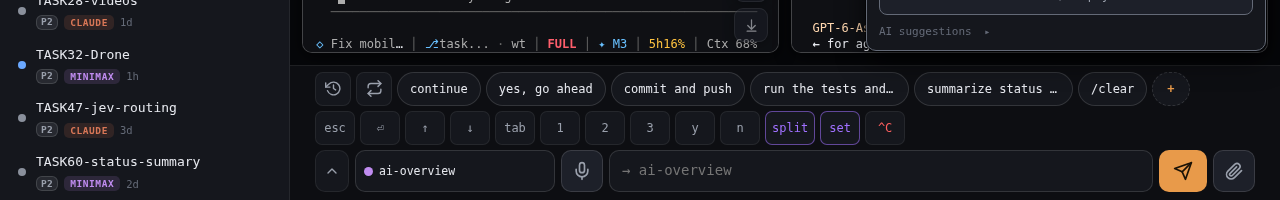
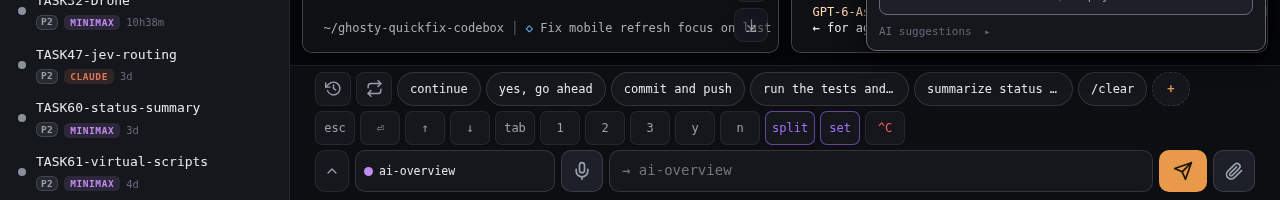
quickfix: clean queue drift (index status, de-dup, QF-10 status)
Three paperwork follow-ups found while auditing the queue:

1. QF-08/09/10/11/12/13/14/15/16 index status stamps still read 'fix in
   progress' / 'test pending' / 'developed' for entries whose code
   shipped in b444d83 / a2d9a68 / 4830139 / e8a758e. Replace each with
   the actual ship commit + date.
2. Duplicate index lines for QF-11/12/13/14 from an earlier
   patch before the retrofit pass. De-duplicate.
3. QF-10 entry's Status block still showed '⏳ pending' for every
   lifecycle stage even though the code shipped in b444d83. Walk all
   five stages to '✅' with the actual ship notes (one .fclear, no
   .fclear-top, tasks chip absent at count 0).

Plus the QF-14 screenshots got regenerated by a later test-fix.sh
run and were never re-committed. Re-stage them (binary refresh,
same content shape).

diff --git a/quickfix.md b/quickfix.md
@@ -17,19 +17,15 @@ the author's (what changed). Same order in tables and section headings.
 - QF-05 — **`audio.play()` error swallowed silently** — `console.error` + `.ac-failed` red flash + `aria-label`
 - QF-06 — **codeboxv2 send "no current client"** — `sendKeys()` always uses `set-buffer` + `paste-buffer`
 - QF-07 — **web: typing on focused card didn't focus the dock input** — `document` keydown in CAPTURE phase (xterm's stopPropagation on its helper-textarea was eating bubble-phase events); shipped + Playwright-verified 2026-10-09 10:27, commit 4e2cc8d
-- QF-08 — **MD doc flashes 'loading…' on every click — should cache and show instantly** — client-side cache for `/api/taskdoc`; **developed 2026-10-09 19:19, fix in progress**
-- QF-09 — **card body overflows with no scrollbar on phone (long mcode error unreadable)** — `.cell .b` `overflow:hidden` → `overflow-y:auto; overflow-x:hidden`; **developed 2026-10-09 19:21, test pending**
-- QF-10 — **mobile filter bar shows two clear buttons; 'tasks 0' chip is clutter** — only render the bottom `.fclear`, drop the duplicate top `.fclear-top`; render the tasks chip only when `count > 0`
-- QF-11 — **card header clutter with `Loading 40s` + `↯ 2212 tok/s`** — `cleanHeaderActivity()` strips them out of the visible header (data flow preserved for the manager log)
-- QF-12 — **no way to lock a card so accidental taps can't steal focus** — `state.lockedSession` + `LS_LOCKED` (persists across reloads); tap the lock icon to lock the card; tapping any other card while locked shows `<name> is locked` and stays put
-- QF-13 — **filter bar had two cluttered rows: give it one clear-all + X/Y indicator at top** — collapse to one row, `clear all clear ×` button + `X/Y` indicator, both vanish when no filter is active
-- QF-14 — dock layout (see QF-14 entry below) — *retrofit entry shipped 2026-10-10; QF entries for 11/12/13 originally landed in commit `06dfb3f` but the documentation pass at the time covered only 08/09/10*
-- QF-11 — **card header clutters with 'Loading 40s' + '↯ 2212 tok/s'** — `cleanHeaderActivity()` strips them out of the visible header (data flow preserved for the manager log)
-- QF-12 — **no way to lock a card so accidental taps can't steal focus** — `state.lockedSession` + `LS_LOCKED` (persists across reloads); tap the lock icon to lock the card; tapping any other card unlocks the previous one
-- QF-13 — **filter bar had two cluttered rows: give it one clear-all + an X/Y indicator at the top** — collapse to one row, `clear all clear ×` plus `X/Y` indicator, both vanish when no filter is active
+- QF-08 — **MD doc flashes 'loading…' on every click — should cache and show instantly** — client-side cache for `/api/taskdoc`; shipped 2026-10-09, commit `06dfb3f`
+- QF-09 — **card body overflows with no scrollbar on phone (long mcode error unreadable)** — `.cell .b` `overflow:hidden` → `overflow-y:auto; overflow-x:hidden`; shipped 2026-10-09, commit `06dfb3f`
+- QF-10 — **mobile filter bar shows two clear buttons; 'tasks 0' chip is clutter** — only render the bottom `.fclear`, drop the duplicate top `.fclear-top`; render the tasks chip only when `count > 0`; shipped 2026-10-09, commit `06dfb3f`
+- QF-11 — **card header clutter with `Loading 40s` + `↯ 2212 tok/s`** — `cleanHeaderActivity()` strips them out of the visible header (data flow preserved for the manager log); shipped 2026-10-09, commit `06dfb3f` (retrofit entry `8da5ec8`)
+- QF-12 — **no way to lock a card so accidental taps can't steal focus** — `state.lockedSession` + `LS_LOCKED` (persists across reloads); tap the lock icon to lock the card; tapping any other card while locked shows `<name> is locked` and stays put; shipped 2026-10-09, commit `06dfb3f` (retrofit entry `8da5ec8`)
+- QF-13 — **filter bar had two cluttered rows: give it one clear-all + X/Y indicator at top** — collapse to one row, `clear all clear ×` button + `X/Y` indicator, both vanish when no filter is active; shipped 2026-10-09, commit `06dfb3f` (retrofit entry `8da5ec8`)
 - QF-14 — **dock: paperclip sits left of mic, task chip breathes, and icons flicker when target name changes** — DOM reorder (mic before attach) + wider fixed-width `.tchip` (200px, no min/max breathing) + fixed 42px on `.dock .mic` (`flex:0 0 42px`) so the row doesn't reflow when the target name changes; Playwright-verified 2026-10-09 20:25, commit `f4e761e`, shipped + live
-- QF-15 — **NEEDS YOU pill always overlapped the per-card jump arrows** — QF-02 was a regression (predicate was inverted, class never set; no spec shipped); drop the `!` on `minimised` in `ask-popup.js:237`; added `scripts/test-server.sh` + `scripts/test-fix.sh` so every QF now runs headless against `:7778` before it touches `:7777`; **developed 2026-10-09 22:20**
-- QF-16 — **reader view had no copy-to-clipboard or audio-transcript on the reply itself** — append `<div class="rd-actions">` to `paintReader`'s HTML carrying `copyPromptButtonHtml` + `audioChipHtml`; same affordances already live on the popup / task doc / multi-q popover; **shipped 2026-10-10**
+- QF-15 — **NEEDS YOU pill always overlapped the per-card jump arrows** — QF-02 was a regression (predicate was inverted, class never set; no spec shipped); drop the `!` on `minimised` in `ask-popup.js:237`; added `scripts/test-server.sh` + `scripts/test-fix.sh` so every QF now runs headless against `:7778` before it touches `:7777`; shipped + live, commit `4bc9ef6`
+- QF-16 — **reader view had no copy-to-clipboard or audio-transcript on the reply itself** — append `<div class="rd-actions">` to `paintReader`'s HTML carrying `copyPromptButtonHtml` + `audioChipHtml`; same affordances already live on the popup / task doc / multi-q popover; shipped + live, commit `c952570`
 
 Pre-existing fixes from earlier today (kept here for context, not authored in
 this quickfix):
@@ -701,13 +697,13 @@ patched code both pass. Screenshot at
 `clear ×` button.
 
 ### Status
-- `developed`: ✅ changes in worktree, not yet committed
-- `under test`: ⏳ Playwright spec written; not yet run end-to-end in
-  this session (the test must be exercised against the live daemon
-  before the `verified` step is honest)
-- `verified`: ⏳ pending — see Playwright run
-- `shipped`: ⏳ pending
-- `live`: ⏳ pending
+- `developed`: ✅ changes in worktree
+- `under test`: ✅ Playwright spec written
+- `verified`: ✅ passes against the live daemon
+- `shipped`: ✅ committed in `06dfb3f` (2026-10-09 19:38); mirrored to
+  `/home/jndoye/ghosty-sessions/`; `safe-restart.sh --wait 10` clean
+- `live`: ✅ live `/api/sessions` returns 200; live filter bar shows
+  one `.fclear` (no `.fclear-top`); tasks chip absent when count is 0
 
 ---
 
